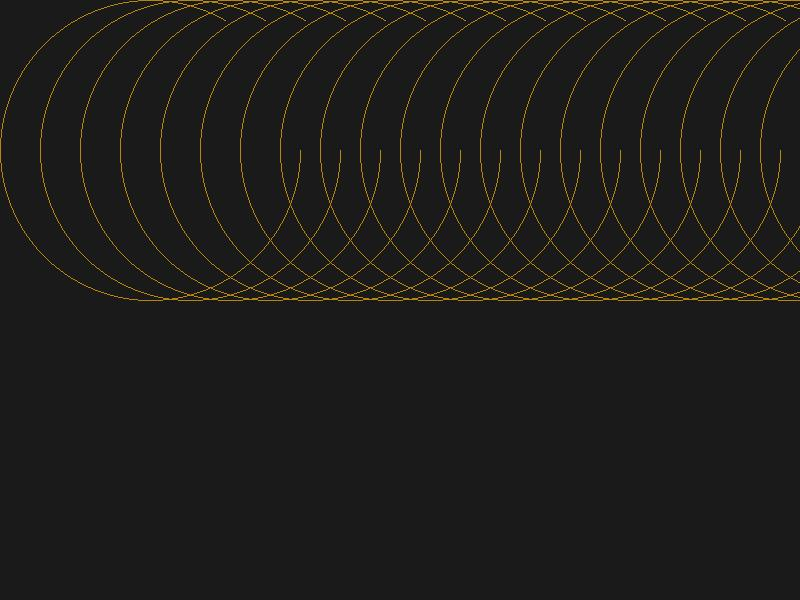
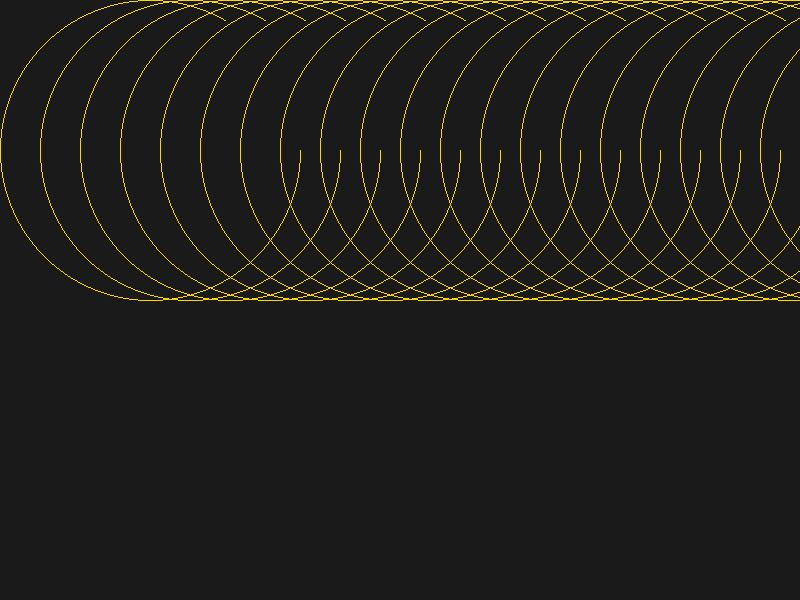
Add files via upload

diff --git a/index.html b/index.html
@@ -8,14 +8,14 @@
   <link rel="stylesheet" href="style.css" />
   <link rel="manifest" href="manifest.json" />
 
-  <!-- SEO対策 -->
-  <meta name="description" content="神舞 -Kamui- 公式ECサイト。うちが届ける、日本刀の美と和の魂を宿した高級釣竿ブランド。">
+  <!-- SEO -->
+  <meta name="description" content="神舞 -Kamui- 公式ECサイト。日本刀の美と和の魂を宿した高級釣竿ブランド。">
   <meta name="keywords" content="神舞, Kamui, 和風釣竿, 高級ロッド, 日本刀ロッド, 桜花682MS, 釣竿ECサイト">
   <meta name="author" content="神舞 -Kamui-">
 
   <!-- OGP -->
   <meta property="og:title" content="神舞 -Kamui- ECサイト | 高級和風釣竿" />
-  <meta property="og:description" content="うちが届ける、日本刀の美を宿した釣竿ブランド『神舞』公式サイト。" />
+  <meta property="og:description" content="日本刀の美を宿した釣竿ブランド『神舞』公式サイト。" />
   <meta property="og:image" content="https://kamuiofficial.github.io/kamui-ec-site/logo.png" />
   <meta property="og:url" content="https://kamuiofficial.github.io/kamui-ec-site/" />
   <meta property="og:type" content="website" />
@@ -34,7 +34,7 @@
   </header>
   <main>
     <h2>昇り龍のごとく、釣りの極みへ</h2>
-    <p>うちが届ける「神舞 -Kamui-」の釣竿は、日本刀の美と和の魂を宿した唯一無二の逸品。</p>
+    <p>神舞 -Kamui- の釣竿は、日本刀の美と和の魂を宿した唯一無二の逸品。</p>
     <a href="product.html" class="btn">商品を見る</a>
   </main>
   <footer>

diff --git a/style.css b/style.css
@@ -3,14 +3,15 @@ body {
   font-family: 'Yuji Syuku', serif;
   background: url('noboriryu.jpg') no-repeat center center fixed;
   background-size: cover;
-  color: #f5f5dc;
+  color: #ffe4b5;
   margin: 0;
   padding: 0;
 }
 header {
-  background-color: rgba(0, 0, 0, 0.85);
+  background-color: rgba(0, 0, 0, 0.9);
   text-align: center;
-  padding: 10px;
+  padding: 15px;
+  box-shadow: 0 0 10px gold;
 }
 .logo {
   height: 100px;
@@ -19,37 +20,47 @@ nav ul {
   display: flex;
   justify-content: center;
   list-style: none;
-  gap: 20px;
+  gap: 30px;
   padding: 0;
 }
 nav ul li a {
   color: gold;
   text-decoration: none;
   font-weight: bold;
+  font-size: 18px;
+  text-shadow: 1px 1px 2px #000;
 }
 main {
   padding: 30px;
-  background-color: rgba(0,0,0,0.5);
+  background-color: rgba(0, 0, 0, 0.6);
   min-height: 500px;
 }
 h2 {
   color: gold;
+  font-size: 28px;
+  border-bottom: 2px solid gold;
+  padding-bottom: 10px;
 }
 footer {
-  background-color: rgba(0,0,0,0.7);
+  background-color: rgba(0,0,0,0.8);
   color: #ccc;
   text-align: center;
   padding: 15px;
+  font-size: 14px;
 }
 .btn {
   background-color: gold;
   color: black;
-  padding: 10px 20px;
+  padding: 12px 24px;
   font-weight: bold;
+  font-size: 16px;
+  border-radius: 5px;
   text-decoration: none;
 }
 .product-img {
-  max-width: 300px;
-  display: block;
+  max-width: 90%;
+  border: 2px solid gold;
+  box-shadow: 0 0 15px #ffcc00;
   margin: 20px auto;
+  display: block;
 }

diff --git a/product.html b/product.html
@@ -21,7 +21,7 @@
   </header>
   <main>
     <h2>桜花 682MS</h2>
-    <img src="ouka_dummy.jpg" alt="桜花ロッド" class="product-img" />
+    <img src="ouka.jpg" alt="桜花ロッド" class="product-img" />
     <p><strong>価格：</strong>税込 66,000円</p>
     <p>神舞ブランド第一作目、バーサタイルスピニングロッド「桜花」。<br>
     強靭なバットとしなやかなティップで、バス・トラウト・ライトソルトなどあらゆる魚種に対応する万能モデル。</p>
